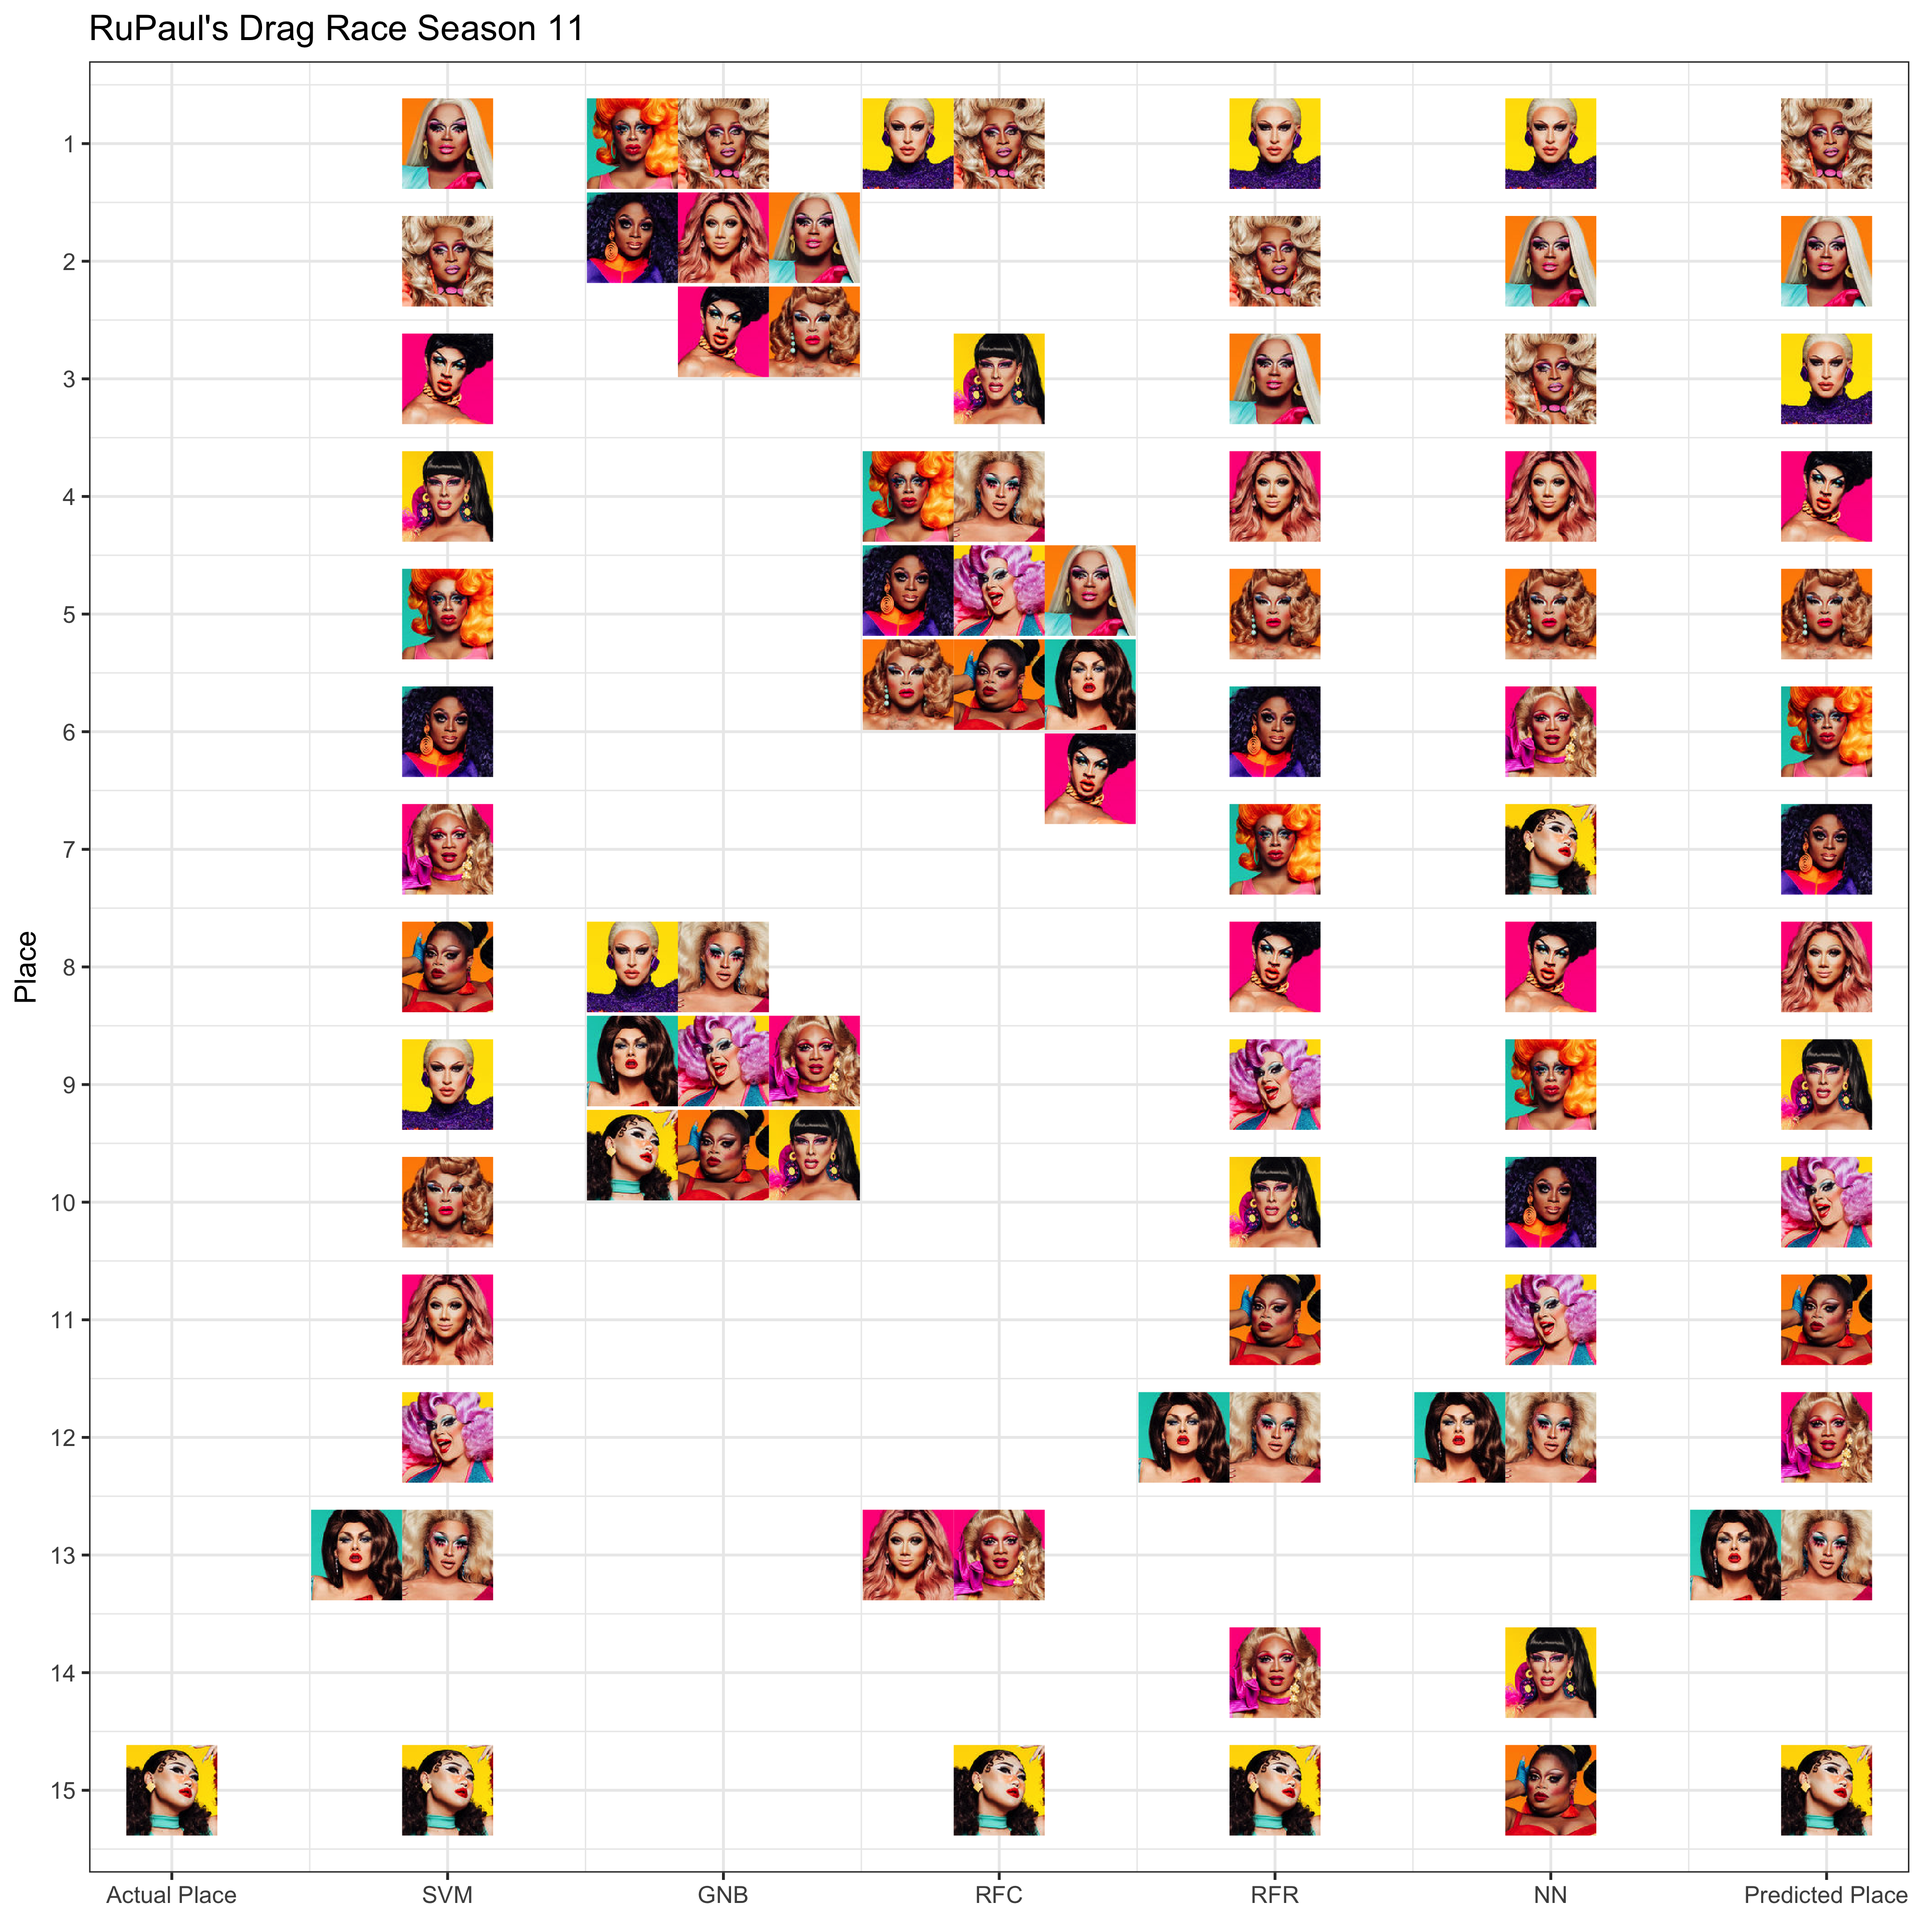
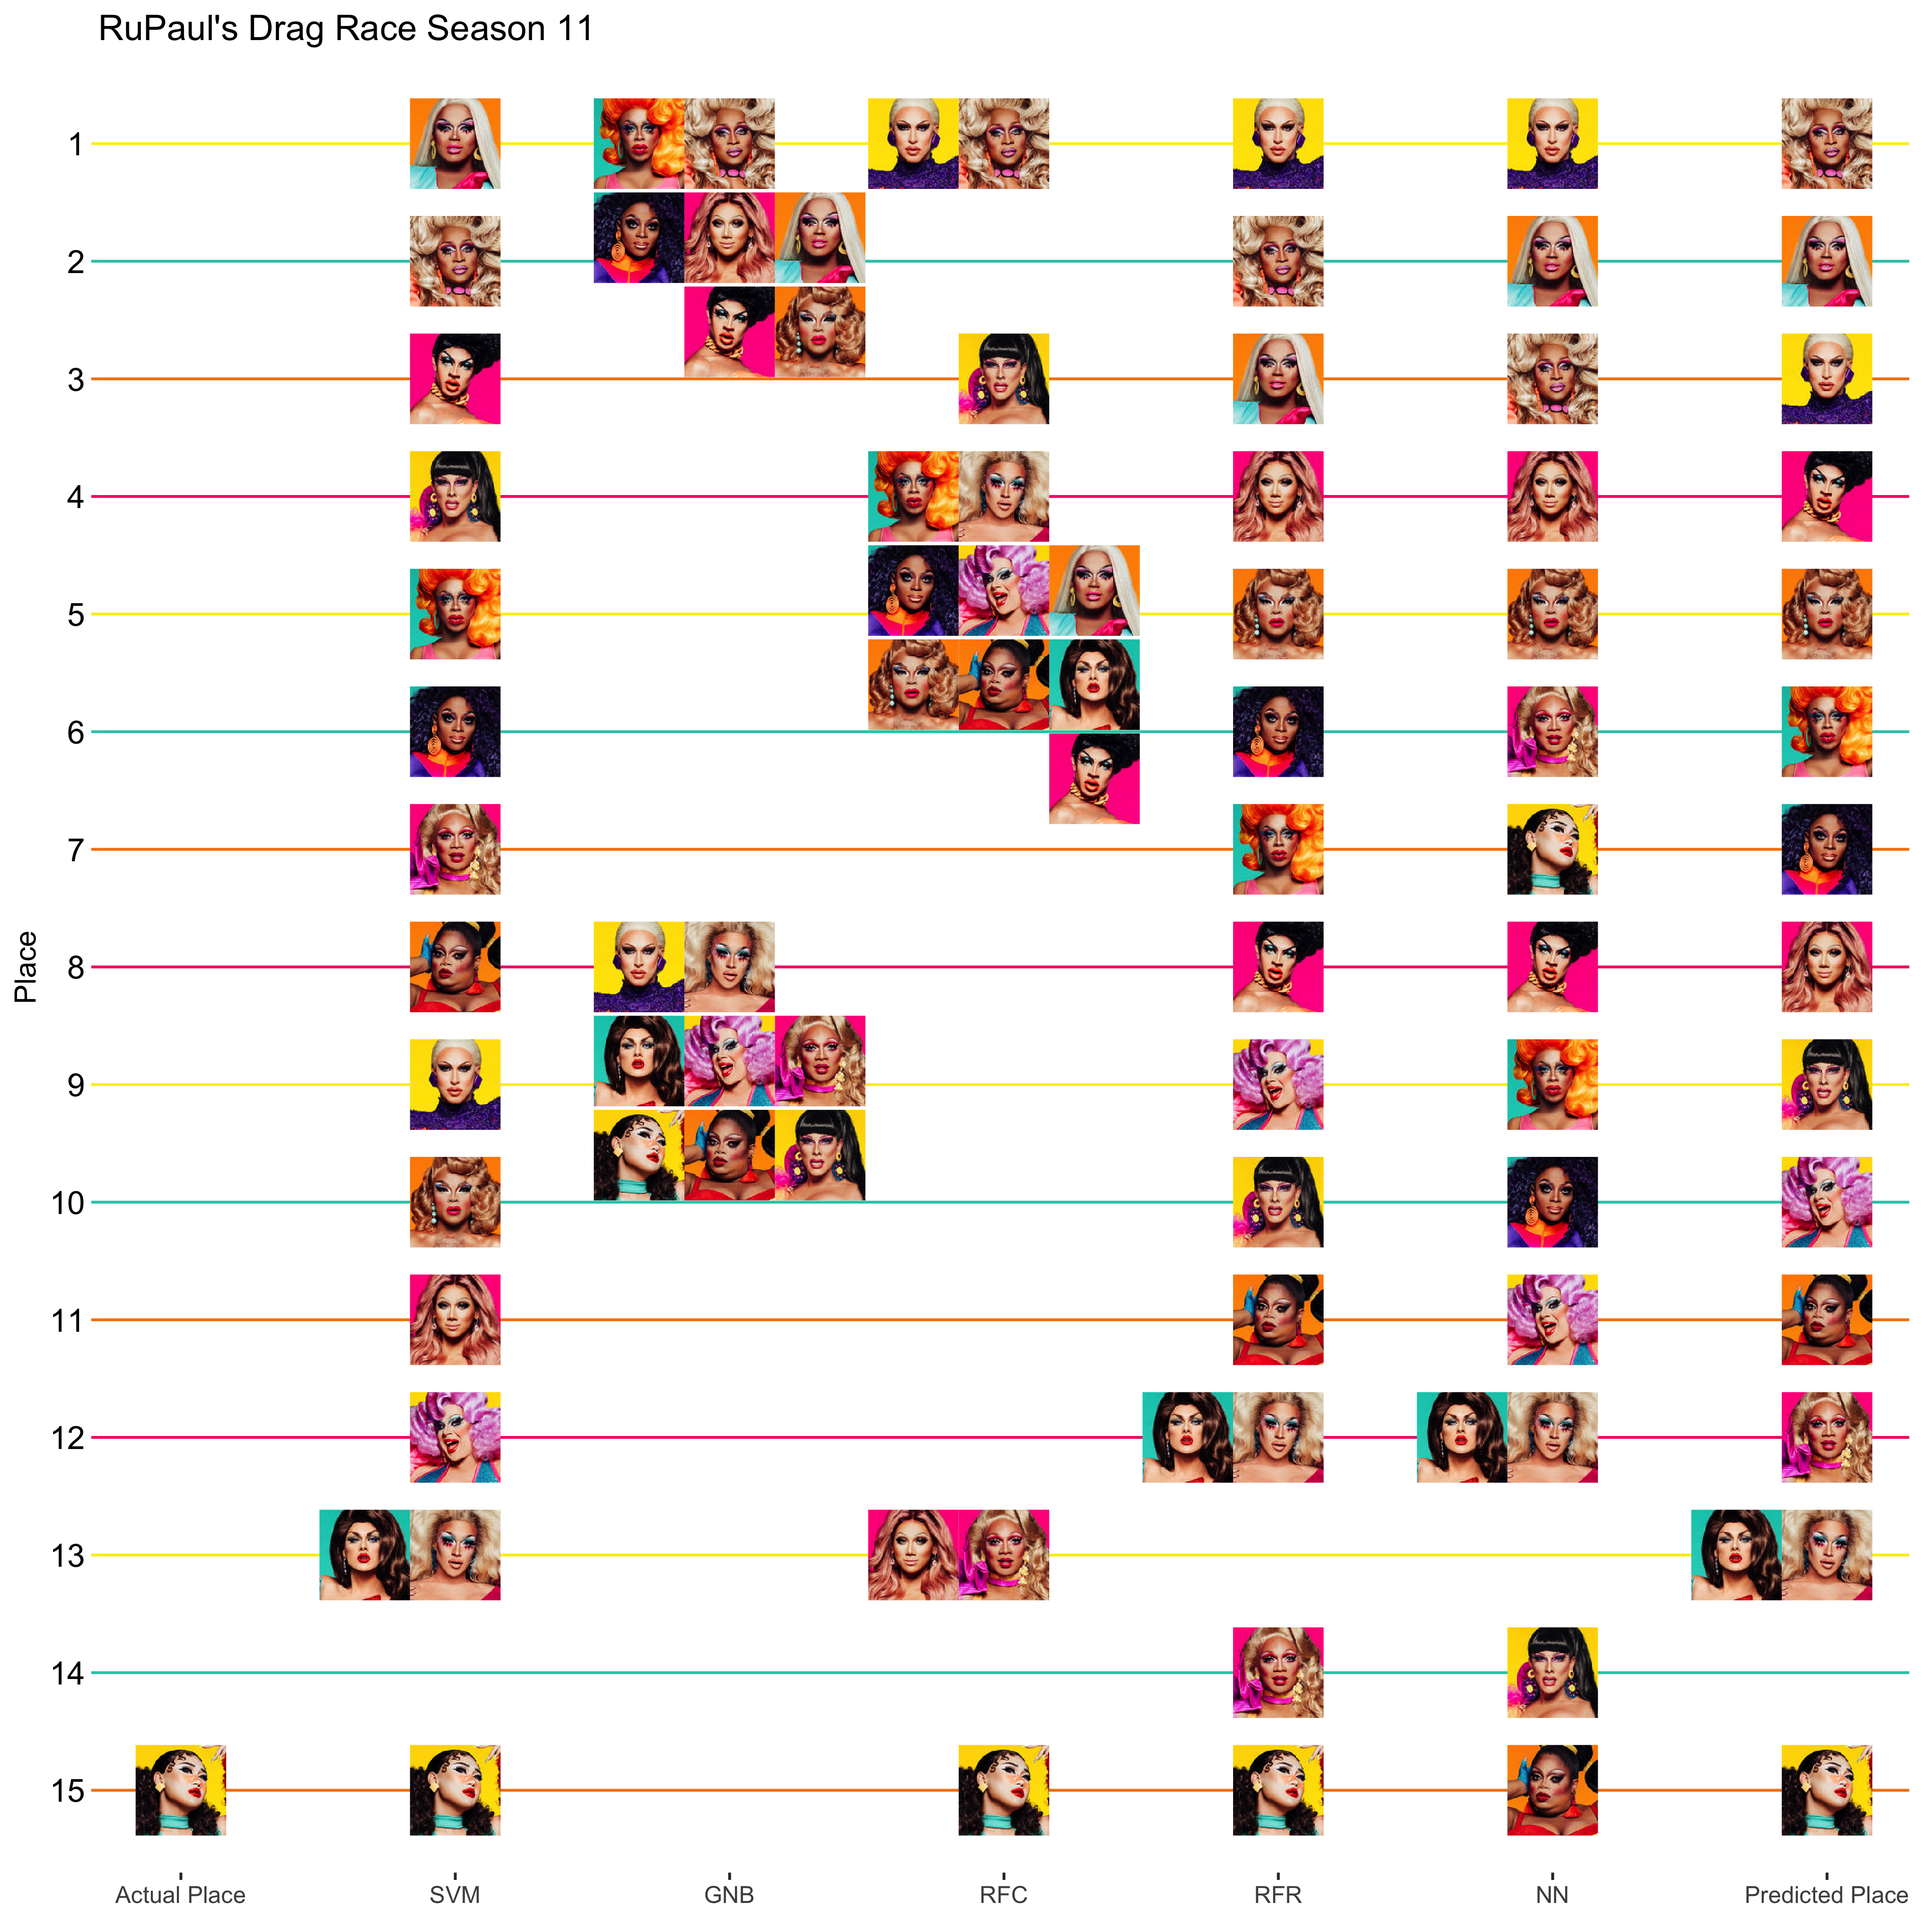
adjust look of visualization

diff --git a/Season 11/Episode 01/drag_race_s11e01.md b/Season 11/Episode 01/drag_race_s11e01.md
@@ -141,7 +141,7 @@ Final Predictions
 
 The final predicted score is based on the average of predicted places for each algorithm.
 
-With one episode down, the algorithms are predicting our top 4 to be A'Keria, Mercedes, Brooke Lynn, and Yvie. The algorithms correctly guessed that Soju would be going home first, and predict that next week Nina West will be sashaying away.
+With one episode down, the algorithms are predicting our top 4 to be A'Keria, Mercedes, Brooke Lynn, and Yvie. The algorithms correctly guessed that Soju would be going home first, and predict a double elimination next week: both Ariel Versace and Scarlet Envy are predicted to go home next.
 
 ``` r
 s11.results<-s11.results %>% 
@@ -203,6 +203,12 @@ df %>%
   ggplot(aes(x=x, y=y)) +
   geom_image(aes(image=filename)) +
   theme_bw() +
+  theme(panel.grid.major.x = element_blank(),
+        panel.grid.minor = element_blank(),
+        panel.border = element_blank(),
+        panel.grid.major.y = element_line(color=season.colors),
+        axis.text.y = element_text(color="black", size=12),
+        axis.ticks.y = element_line(color=season.colors)) +
   scale_x_continuous(name=NULL, breaks=c(1:7), 
                      labels=c("Actual Place", "SVM", "GNB", "RFC", "RFR", "NN", "Predicted Place")) +
   scale_y_continuous(name="Place", breaks=c(1:15), labels=c(15:1)) +
